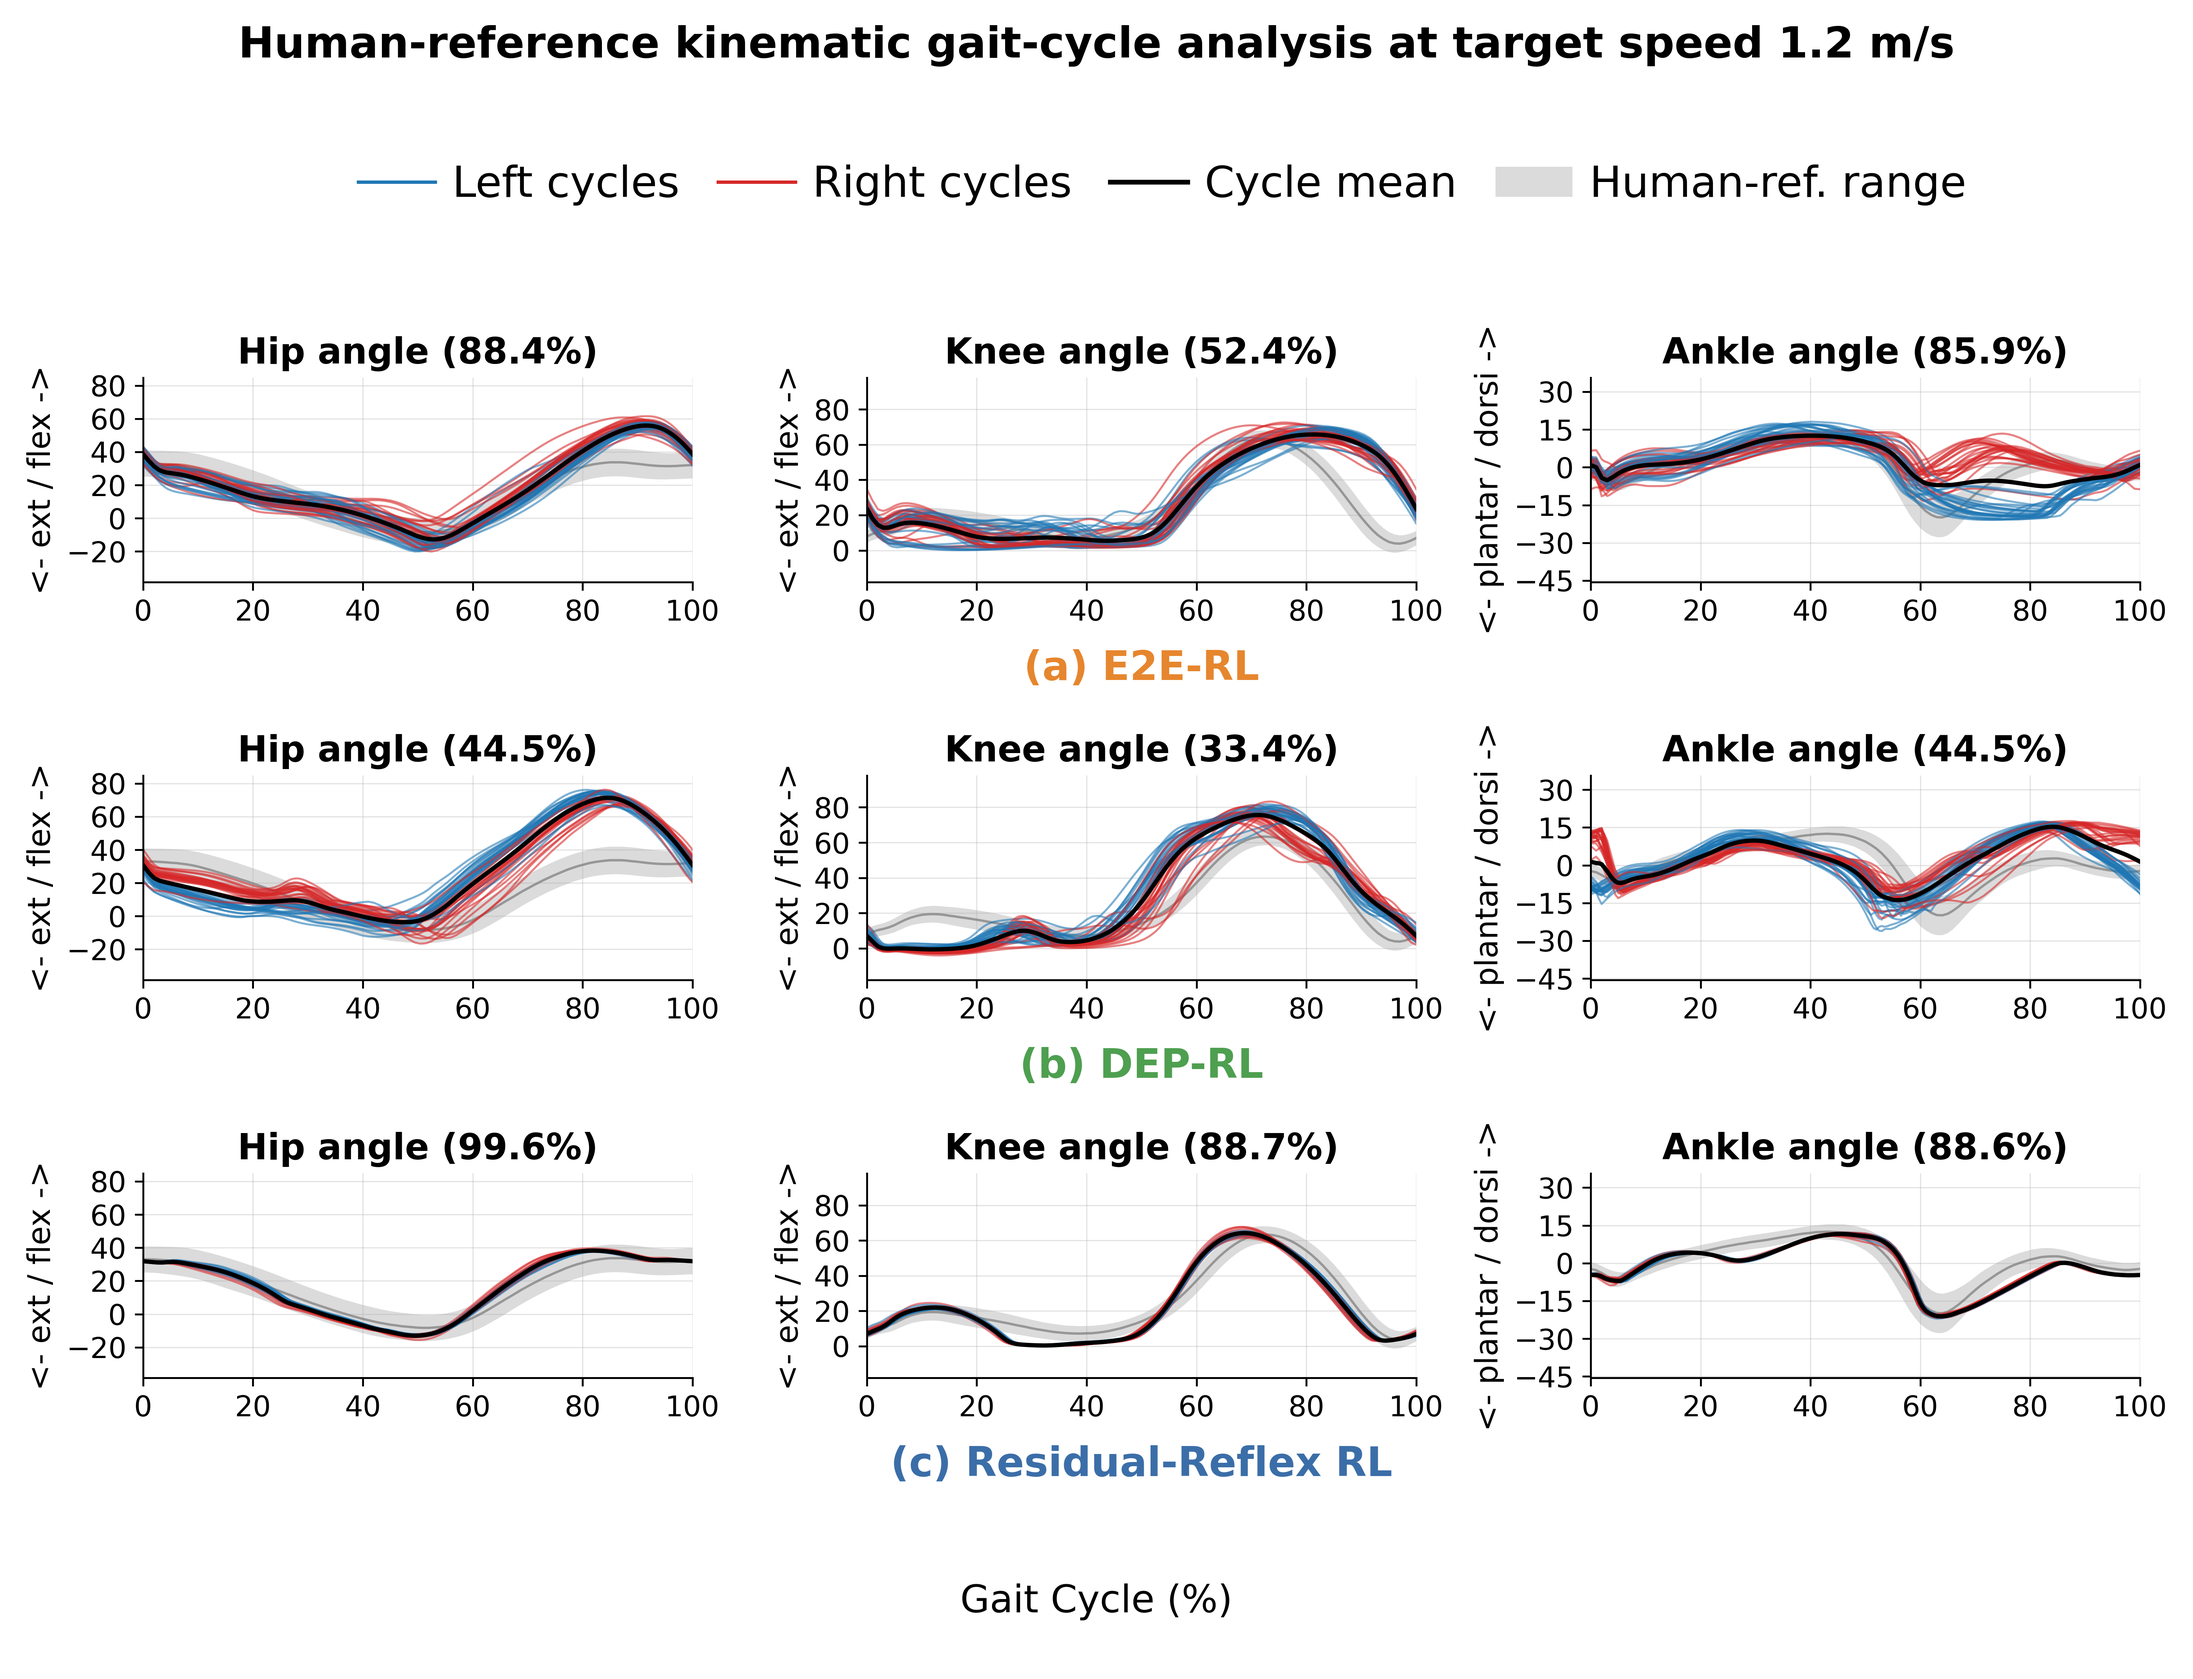
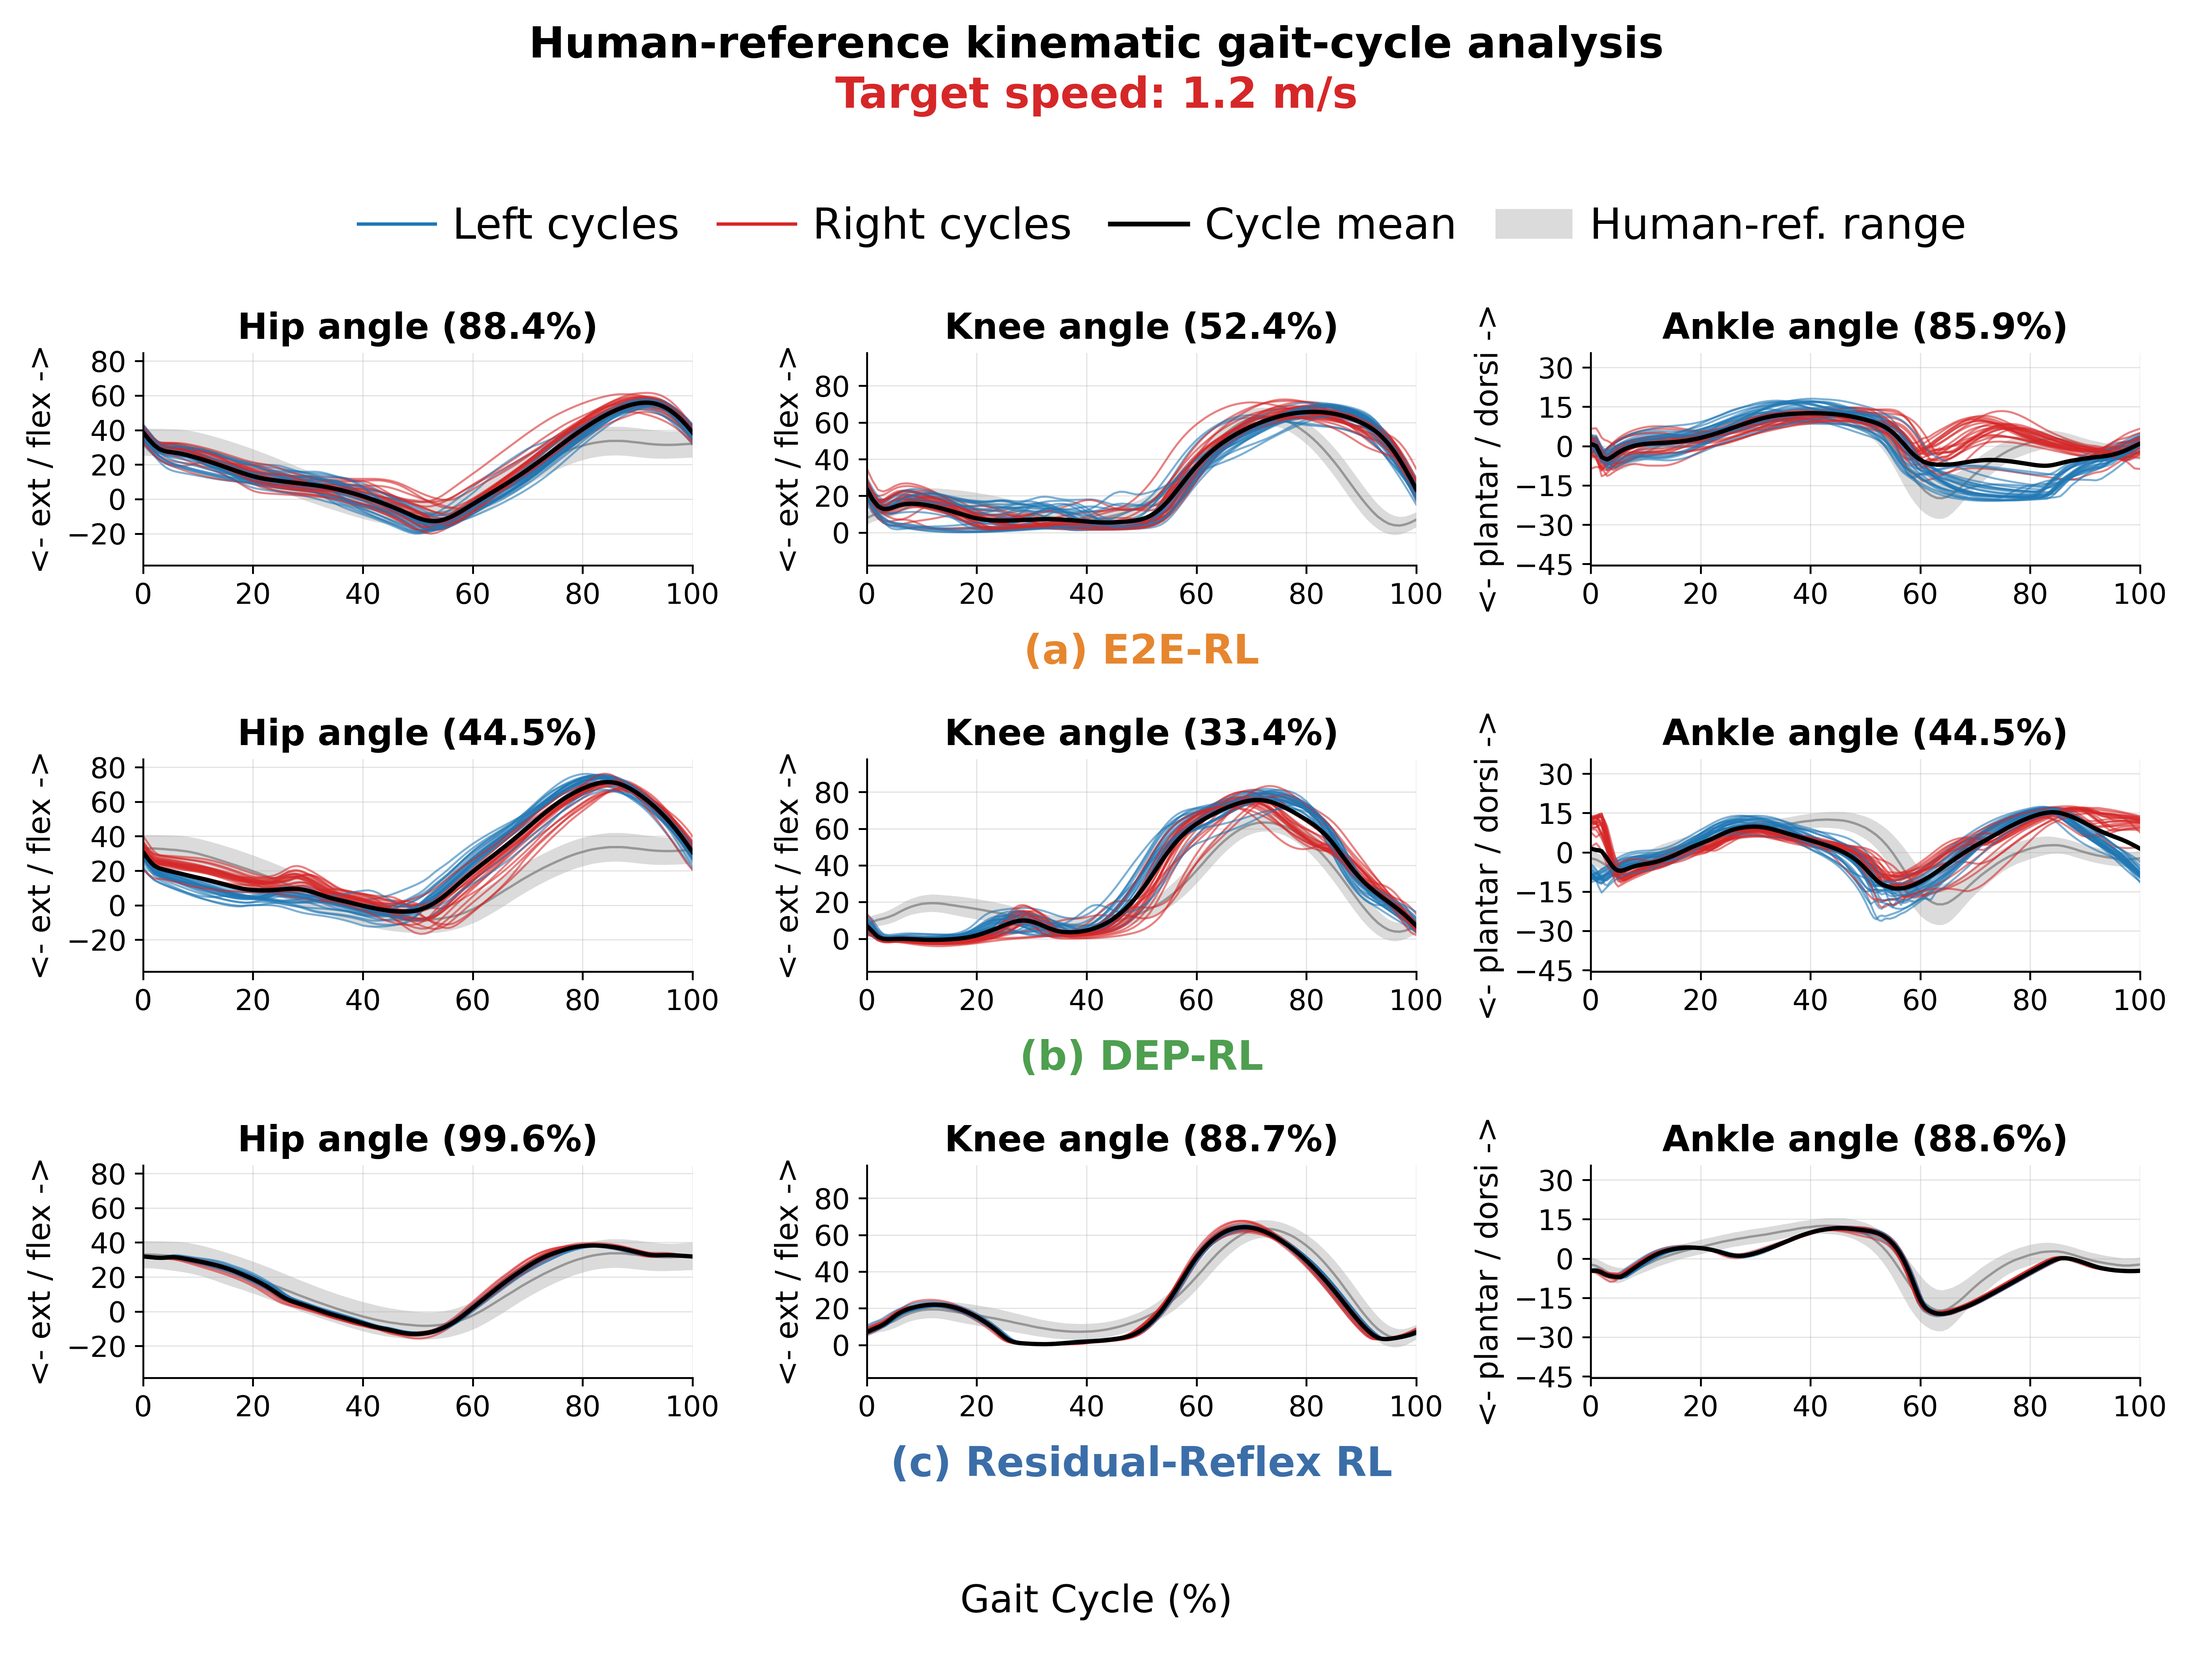
Update gait figure title styling

diff --git a/main.tex b/main.tex
@@ -13,7 +13,6 @@
 \usepackage{multirow}
 \usepackage{booktabs}
 \usepackage{makecell}
-\usepackage{xcolor}
 
 
 \newcolumntype{L}[1]{>{\raggedright\arraybackslash}m{#1}}
@@ -648,7 +647,7 @@ directly captured by joint-angle profiles alone.
 \begin{figure}[!t]
 \centerline{\includegraphics[width=\columnwidth]{gait_analysis_residual_vs_e2e_0p8.png}}
 \caption{Human-reference kinematic gait-cycle visualization at target speed
-\textcolor{red}{0.8~m/s} for E2E-RL, DEP-RL, and Residual-Reflex RL. Blue and red
+\textbf{0.8~m/s} for E2E-RL, DEP-RL, and Residual-Reflex RL. Blue and red
 curves denote left and right gait cycles, respectively; the black curve is the
 cycle average and the gray band is the human-reference range.}
 \label{fig:gait_profiles_08}
@@ -657,7 +656,7 @@ cycle average and the gray band is the human-reference range.}
 \begin{figure}[!t]
 \centerline{\includegraphics[width=\columnwidth]{gait_analysis_residual_vs_e2e_1p0.png}}
 \caption{Human-reference kinematic gait-cycle visualization at target speed
-\textcolor{red}{1.0~m/s} for E2E-RL, DEP-RL, and Residual-Reflex RL. Blue and red
+\textbf{1.0~m/s} for E2E-RL, DEP-RL, and Residual-Reflex RL. Blue and red
 curves denote left and right gait cycles, respectively; the black curve is the
 cycle average and the gray band is the human-reference range.}
 \label{fig:gait_profiles_10}
@@ -666,7 +665,7 @@ cycle average and the gray band is the human-reference range.}
 \begin{figure}[!t]
 \centerline{\includegraphics[width=\columnwidth]{gait_analysis_residual_vs_e2e_1p2.png}}
 \caption{Human-reference kinematic gait-cycle visualization at target speed
-\textcolor{red}{1.2~m/s} for E2E-RL, DEP-RL, and Residual-Reflex RL. Blue and red
+\textbf{1.2~m/s} for E2E-RL, DEP-RL, and Residual-Reflex RL. Blue and red
 curves denote left and right gait cycles, respectively; the black curve is the
 cycle average and the gray band is the human-reference range.}
 \label{fig:gait_profiles_12}
